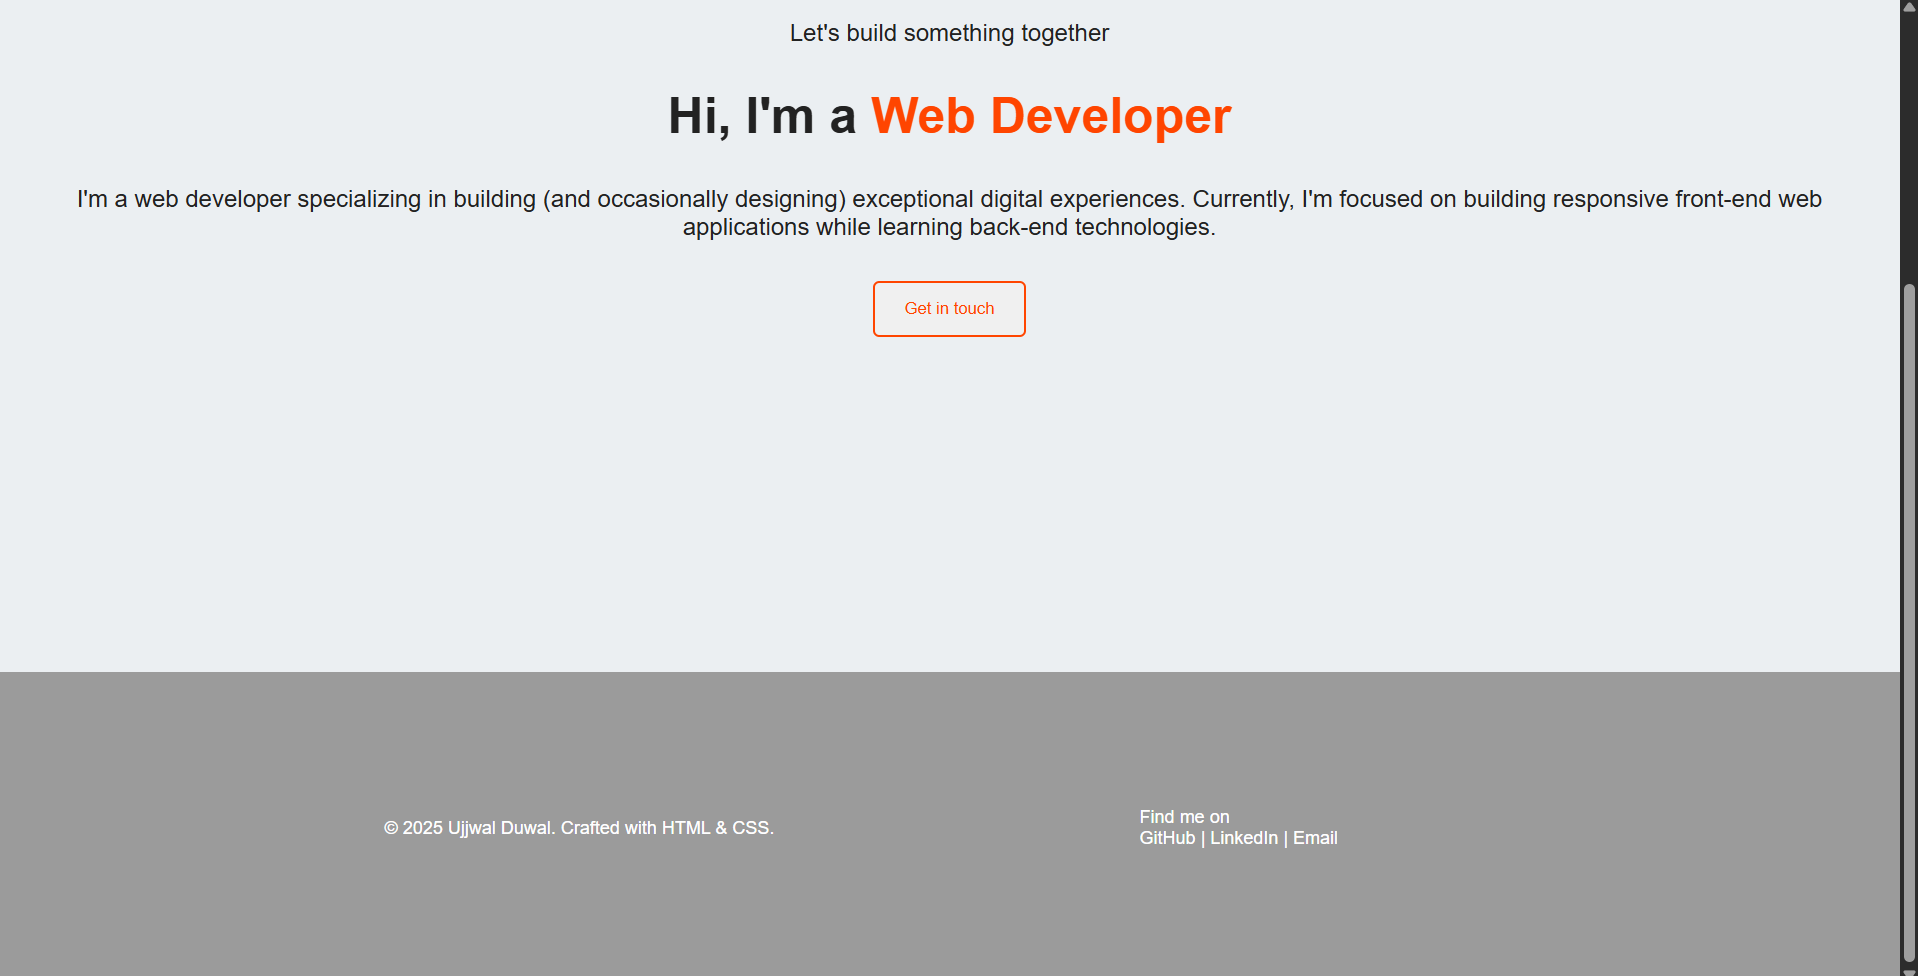
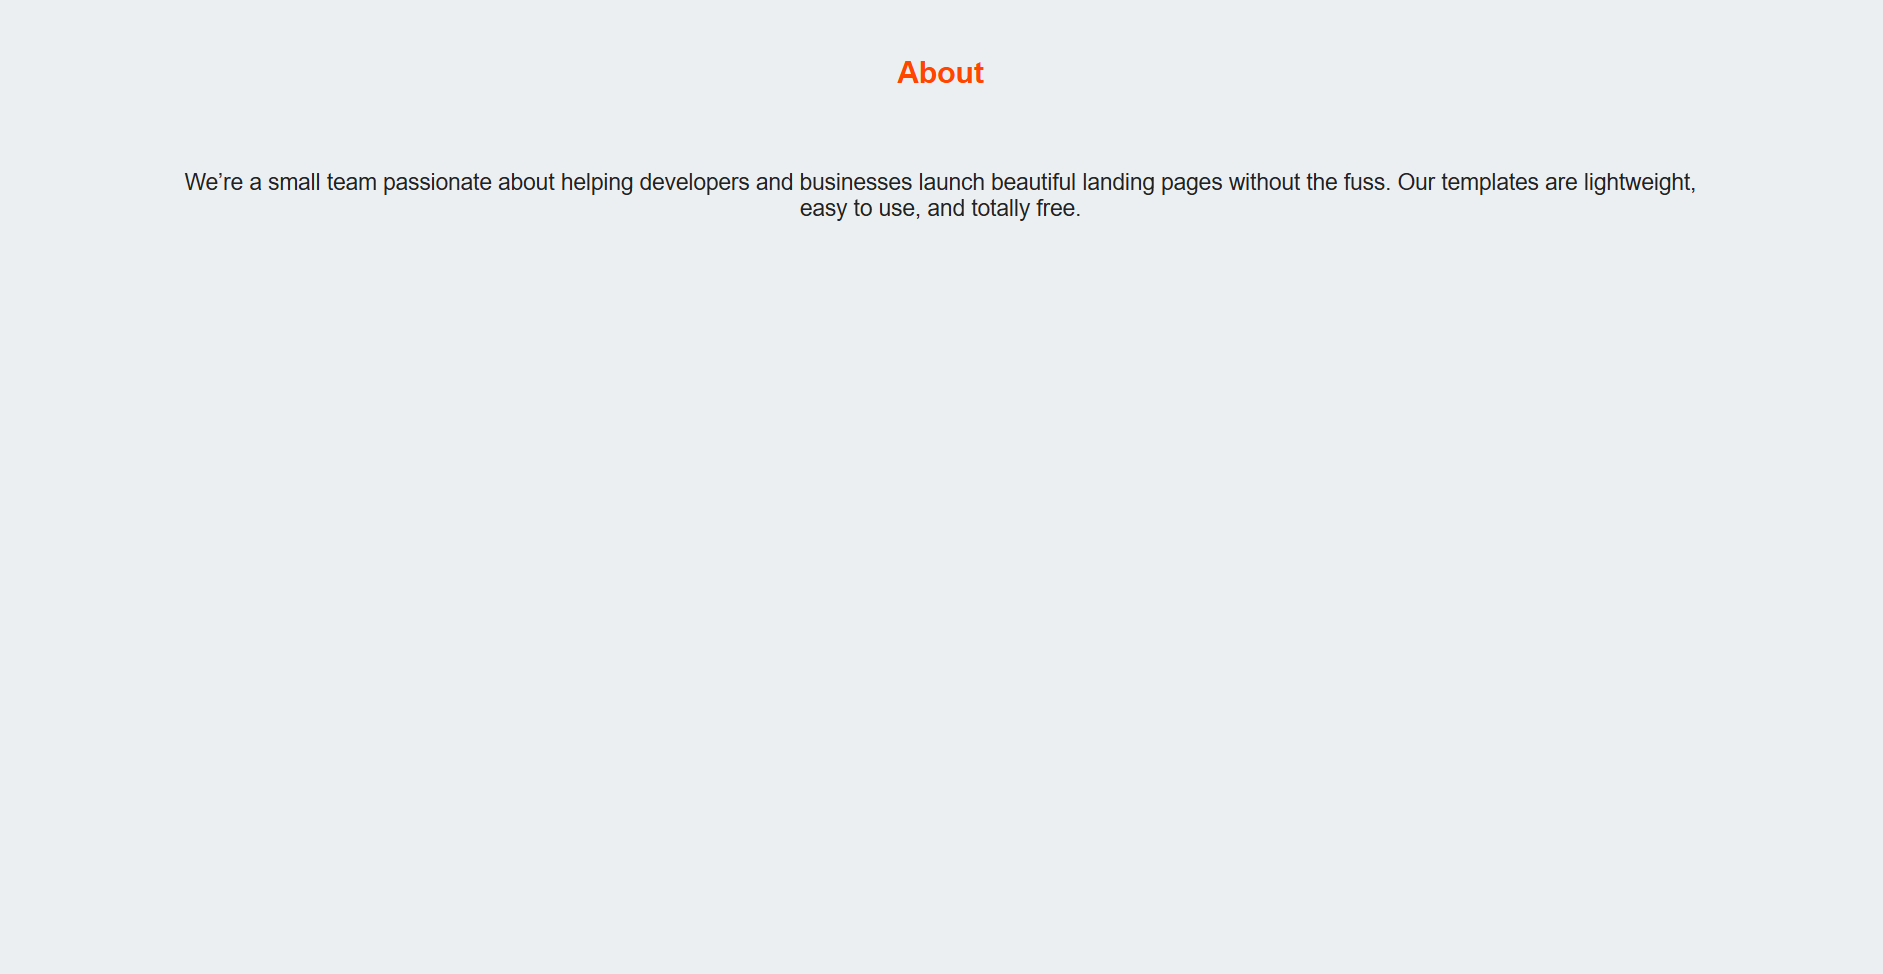
Updated README.md file

diff --git a/2_LandingPage_task/README.md b/2_LandingPage_task/README.md
@@ -1,20 +1,34 @@
 # Assignment - Landing Page Demo
 
-This is a responsive landing page built with only **HTML** and **CSS**, created as a demo for a personal portfolio.
+This is a responsive landing page built with only **HTML** and **CSS**, created as a demo for a Tech Company.
 
 ## Features
 
+- Single Page Application
 - Mobile responsive design
 - Semantic HTML structure
 - Hover and transition effects
-- Header(Navbar), Main Content(Hero Section) and Footer
+- Smooth Scrolling 
+- Header(Navbar), Main Content(Features, About and Contact) and Footer
 
 ## Screenshots
 
-- Home Page (Navbar and main content)
+- Home Page 
 
-![Screenshot of home page](screenshots/image.png)
+![Home Page](screenshots/image.png)
+
+- Features
+
+![Features](screenshots/image-2.png)
+
+- About
+
+![About Page](screenshots/image-1.png)
+
+- Contact
+
+![Contact Page](screenshots/image-3.png)
 
 - Footer
 
-![Screenshot showing footer](screenshots/image-1.png)
+![Footer](screenshots/image-4.png)
